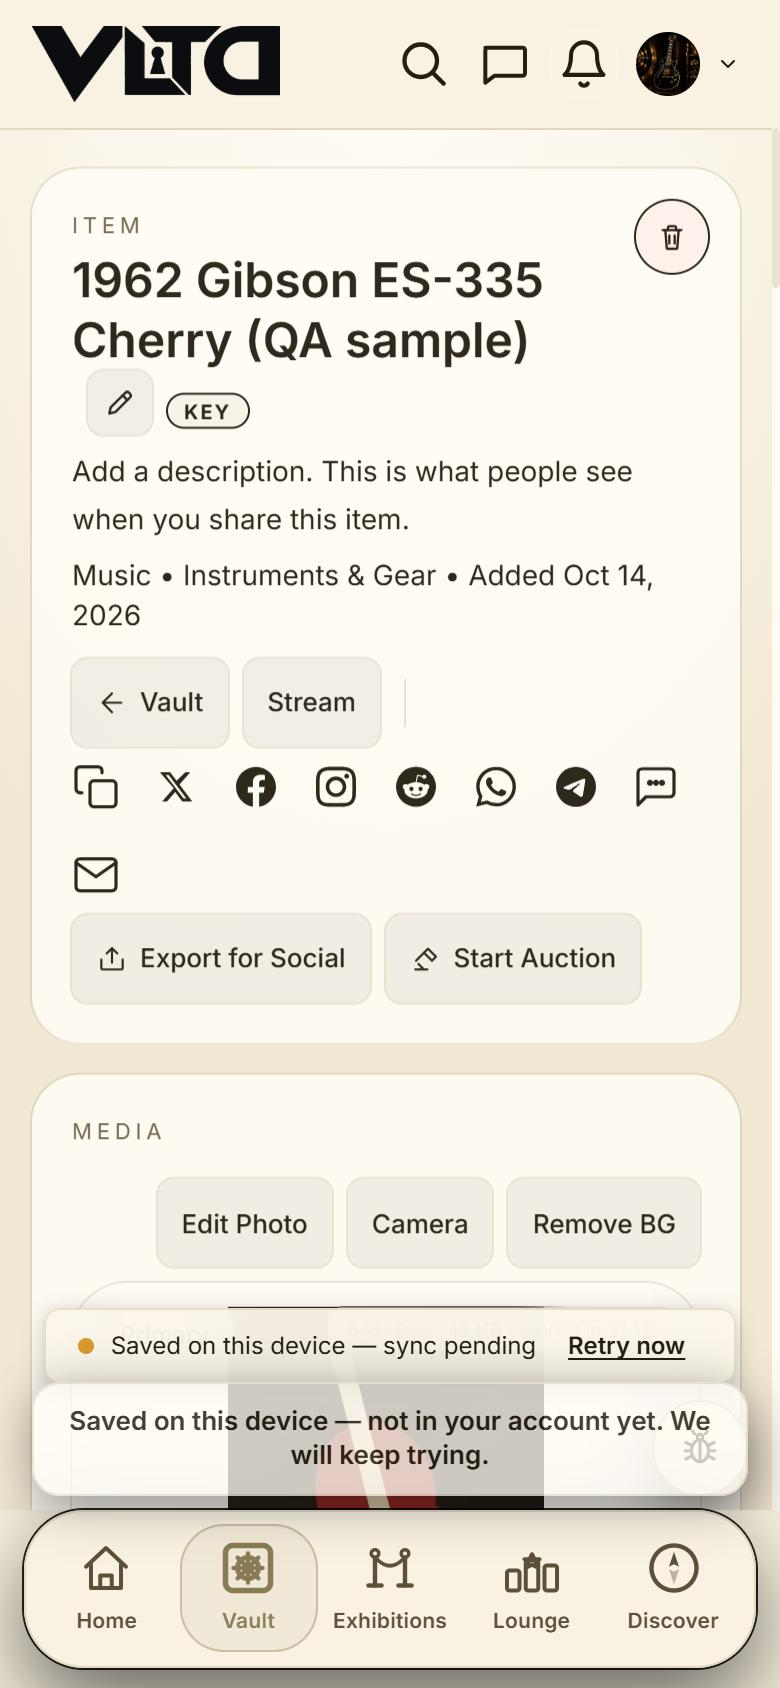
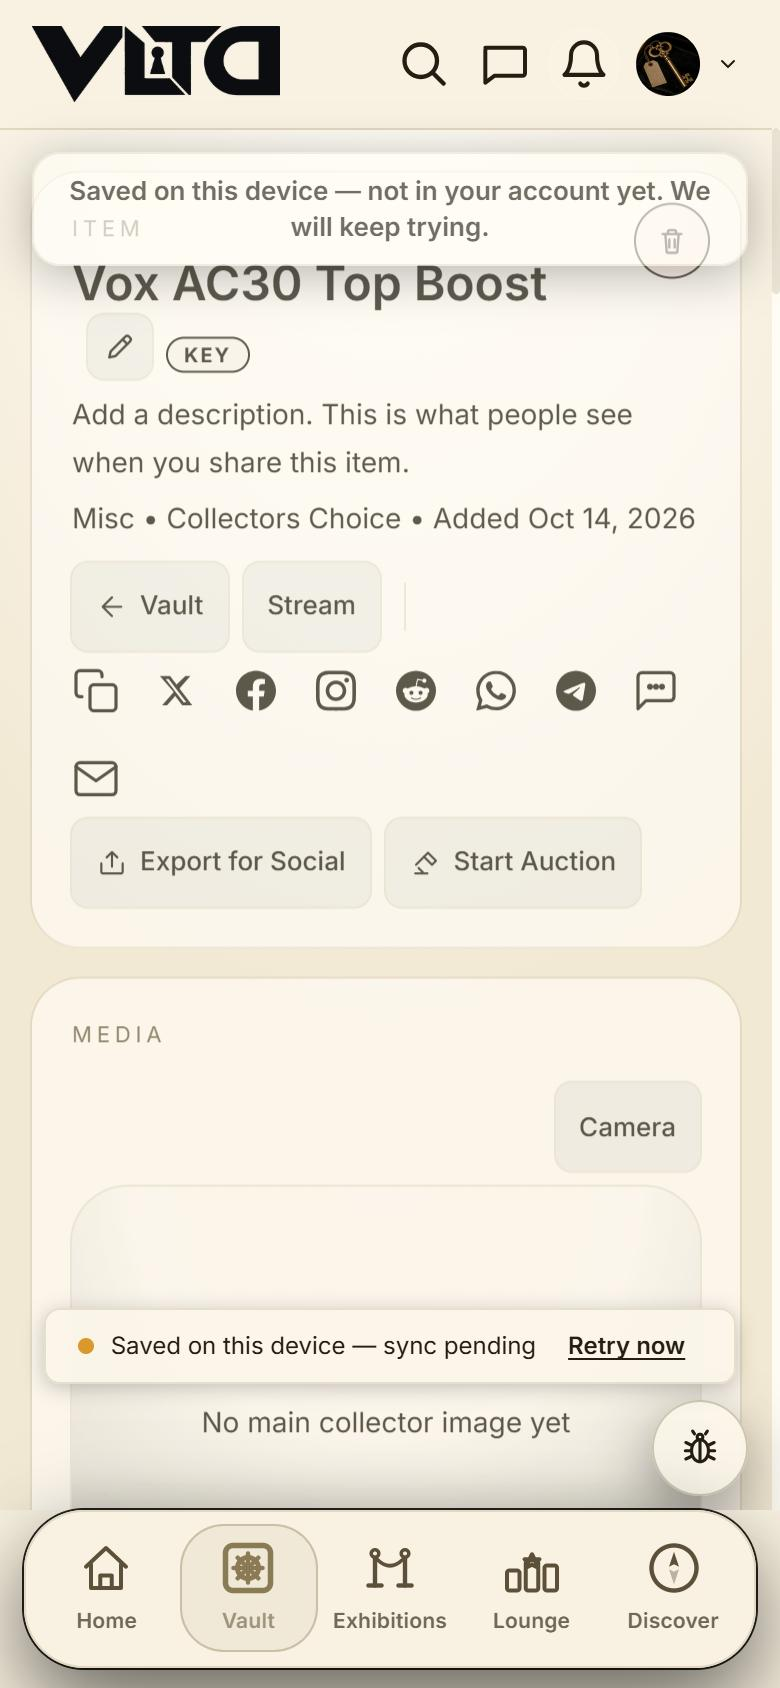
Handoff and walkthrough: record light-theme title, toast placement and arranging checks

diff --git a/docs/walkthrough/2026-10-14-qa/index.html b/docs/walkthrough/2026-10-14-qa/index.html
@@ -24,7 +24,7 @@ a{color:var(--accent)}
 <p class="lead">Add an item, build and share an exhibition, import a spreadsheet, and switch between Personal and Business profiles. Taken on the live site with a throwaway test account and made-up data (deleted afterwards).</p>
 
 <div class="note">
-<b>Tested:</b> 2026-10-14 against production <code>vltd.app</code>, code up to commit <code>97739e6</code> (import wording fixes <code>9679c45</code>/<code>79fbb34</code>, category label fix <code>ee4f8fe</code> and exhibit-name fix <code>97739e6</code> came in during the pass).<br>
+<b>Tested:</b> 2026-10-14 against production <code>vltd.app</code>, code up to commit <code>75b59aa</code> (import wording fixes <code>9679c45</code>/<code>79fbb34</code>, category label fix <code>ee4f8fe</code> and exhibit-name fix <code>97739e6</code> came in during the pass).<br>
 <b>Viewport:</b> desktop browser pane (1280 × 720) unless a step says otherwise. Narrow-screen checks used an <i>emulated</i> 320 / 390 px viewport, <b>not a physical phone</b>.<br>
 <b>Media:</b> numbered screenshots only. <b>No screen recording was produced</b> (the browser pane used for testing cannot record video); the narration scripts and shot lists below are ready for a later recording. If the app changes after the commit above, re-check the labels.<br>
 <b>Not captured / not verified:</b> real camera capture (blocked in the test browser), physical phone, push notifications, Comcast email delivery.
@@ -55,7 +55,8 @@ a{color:var(--accent)}
 <div class="step"><span class="num">1</span><div class="txt"><h3>Create the exhibition</h3><p>Exhibitions → <b>Create First Exhibition</b> (or <b>+ Create Exhibition</b>). Type a title and a short description.</p><p class="exp"><b>Expected:</b> the form lists your plan and remaining slots.</p><img src="img/exhibition-0-create-page.jpg" alt="Create Exhibition page"></div></div>
 <div class="step"><span class="num">2</span><div class="txt"><h3>Choose who can see it</h3><p>Under <b>Visibility</b> pick <b>Private</b>, <b>Public Exhibit</b>, <b>Guest View</b> or <b>Registered Users</b> (Private needs a paid plan), then <b>Create Exhibition</b>.</p><p class="exp"><b>Expected:</b> private is explained as "only for yourself, good for test beds before sharing".</p><img src="img/exhibition-1-visibility.jpg" alt="Visibility options on the Create Exhibition page"></div></div>
 <div class="step"><span class="num">3</span><div class="txt"><h3>Add items</h3><p>On the exhibition page choose <b>Edit/Add</b>, tick items in the picker (the counter shows how many of 18), then <b>Add to Exhibit (n)</b>.</p><p class="exp"><b>Expected:</b> the picked items appear on the shelf, "Saved to your account" shows, and the curated value and cost update.</p><img src="img/exhibition-3-pick-items.jpg" alt="Item picker with three items selected"><img src="img/exhibition-4-items-added.jpg" alt="Three items placed in the exhibit with value and cost totals"></div></div>
-<div class="step"><span class="num">4</span><div class="txt"><h3>Name the exhibit page and save</h3><p>Type an exhibit name and description in the builder and press <b>Save</b>.</p><p class="exp"><b>Expected:</b> the name is kept after a reload. (Before commit <code>97739e6</code> the name was silently dropped on a gallery with no exhibit page yet; that is fixed.) Reordering by drag was attempted with a scripted drag and not confirmed, so <b>arranging is not captured</b>.</p></div></div>
+<div class="step"><span class="num">4</span><div class="txt"><h3>Arrange the items</h3><p>Open <b>Advanced</b> under the shelf. The <b>Selected Items</b> list says "Drag selected items to reorder". Drag a card by its grip to a new place; the order is saved as you drop it.</p><p class="exp"><b>Expected:</b> the cards swap positions at once and the same order is there after a reload (checked in the cloud: Gretsch, Gibson, Fender after moving the third item to the top). The <b>Organize</b> button on the shelf only appears once the exhibition has an exhibit page (<b>Exhibit #1 → + Add Exhibit</b>); that path was not exercised. The drag was run with scripted drag events because the test browser cannot start a real mouse drag, so a real-pointer drag is still unconfirmed.</p><img src="img/exhibition-arrange-1-before.jpg" alt="Selected Items list in the original order"><img src="img/exhibition-arrange-2-after-reload.jpg" alt="Selected Items list after dragging the third item to the top and reloading"></div></div>
+<div class="step"><span class="num">4b</span><div class="txt"><h3>Name the exhibit page and save</h3><p>Type an exhibit name and description in the builder and press <b>Save</b>.</p><p class="exp"><b>Expected:</b> the name is kept after a reload. (Before commit <code>97739e6</code> the name was silently dropped on a gallery with no exhibit page yet; that is fixed.)</p></div></div>
 <div class="step"><span class="num">5</span><div class="txt"><h3>Make it public and share</h3><p>Under <b>User access mode</b> choose <b>Public Exhibit</b>, then confirm <b>Make public</b>. Use <b>Copy Link</b> or the share icons.</p><p class="exp"><b>Expected:</b> "Exhibition published!", the status chip reads Public, and the link works signed out.</p><img src="img/exhibition-5-make-public-confirm.jpg" alt="Make this exhibit public confirmation"><img src="img/exhibition-7-published-state.jpg" alt="Exhibition shown as Public with share link"></div></div>
 <div class="step"><span class="num">6</span><div class="txt"><h3>Preview as a guest</h3><p>Open the exhibition's guest route (<b>Preview ↗</b> / <code>/guest</code>) to see what visitors see.</p><p class="exp"><b>Expected:</b> title, description, owner display name, item count and the items.</p><img src="img/exhibition-6-guest-view.jpg" alt="Guest preview of the exhibition"></div></div>
 <p class="meta"><b>Narration:</b> "Name your exhibition, choose who can see it, then pick items from your Vault. Add a title for the room, save, and when you're ready, make it public and copy the link. Use Preview to see exactly what a visitor sees."</p>
@@ -80,9 +81,9 @@ a{color:var(--accent)}
 
 <h2 id="themes">5. Light theme and narrow screens (QA evidence)</h2>
 <div class="step"><span class="num">1</span><div class="txt"><h3>Appearance → Light</h3><p>Account menu → <b>Appearance</b> (opens Settings → Preferences). Choose <b>Light</b>, then <b>Save</b>. The page says "Light themes are in beta".</p><img src="img/light-1-appearance.jpg" alt="Appearance settings in light theme"></div></div>
-<div class="step"><span class="num">2</span><div class="txt"><h3>Save-status note and long message at 390 px (emulated)</h3><p><b>Expected:</b> the "Saved on this device — sync pending" note sits above the bottom navigation and the long toast wraps inside the screen without covering the nav.</p><img src="img/light-2-390-pill-and-toast.jpg" alt="Pending note and wrapped toast above bottom navigation at 390 px"></div></div>
+<div class="step"><span class="num">2</span><div class="txt"><h3>Save-status note and long message at 390 px (emulated, light theme)</h3><p><b>Expected:</b> the "Saved on this device — sync pending" note sits above the bottom navigation and the long toast drops in under the header (narrow screens only), wraps inside the screen, and never covers the nav, Add Item or the bug-report button.</p><img src="img/light-2-390-pill-and-toast.jpg" alt="Pending note and wrapped toast above bottom navigation at 390 px"></div></div>
 <div class="step"><span class="num">3</span><div class="txt"><h3>Delete dialog at 320 px (emulated)</h3><p><b>Expected:</b> the dialog fits the screen; <b>Cancel</b> and <b>Delete Forever</b> are both reachable above the bottom navigation.</p><img src="img/light-3-320-delete-dialog.jpg" alt="Delete dialog at 320 px in light theme"></div></div>
-<p class="meta">Known, not fixed (not clipping/overlap): in the light theme the exhibition page title is very low contrast against the cream card.</p>
+<div class="step"><span class="num">4</span><div class="txt"><h3>Exhibition title in the light themes</h3><p><b>Expected:</b> the title and description use the theme's own text colour. Measured contrast: Steel 18.1:1, Cloud 15.3:1, Platinum 16.3:1 (fixed in <code>75b59aa</code>; a cover image still uses light text over its dark scrim, not exercised).</p><img src="img/exhibition-8-light-title-readable.jpg" alt="Exhibition page in the light Platinum theme with a readable title"></div></div>
 
 <h2 id="help-delete">Separate Help topic: deleting</h2>
 <p class="meta">Verified live earlier on 2026-10-14; no screenshots captured in this pass.</p>

diff --git a/HANDOFF.md b/HANDOFF.md
@@ -1,3 +1,19 @@
+# 2026-10-14 (latest) — Bounded corrections: light-theme title, toast placement, item arranging
+
+Commit `75b59aa` (deployed, verified live). Redesign untouched.
+
+| Correction | Result | Evidence |
+|---|---|---|
+| Exhibition title faint in light themes | **FIXED, verified live** | Cause: the title block carried `vltd-dark-surface` (light text) on a card that is light in light themes. Now the class applies only when a cover image supplies a dark scrim. Measured contrast of the title on the card: Steel 18.1:1, Cloud 15.3:1, Platinum 16.3:1; layout unchanged. Cover-image case not exercised. |
+| Toast overlapping bug button / Add Item / bottom nav | **FIXED, verified live** | Under 768 px toasts now drop in just under the header (wide screens keep the bottom). At 390 and 320 px the long pending-save toast (16–374 / 16–304 px wide, 76–133 px from top) intersects neither the bug button, the bottom navigation nor the header; the full message wraps on two lines. Floating Add Item sits at the bottom, so cannot meet a top toast (not on the item page used for the measurement). Cost: a toast can briefly cover the top of page content (pointer-events: none). |
+| Arranging items | **WORKS via Advanced → Selected Items; saved order survives reload** | Moved the third item to the top: list order and the cloud `layout.itemIds` order matched after a reload (Gretsch, Gibson, Fender). The pane's real mouse drag does not start a native drag, so the move was done with scripted drag events (dragstart/dragover/drop) on the same handlers; a real-pointer drag on a desktop browser is still UNCONFIRMED. Note: the shelf **Organize** pill only renders when the gallery already has an exhibit page (Exhibit #1 → + Add Exhibit); a newly created exhibition has none, so shelf arranging is not offered until then (code reading; not exercised, not changed). |
+
+Walkthrough index: replaced only the screenshot that changed (`light-2-390-pill-and-toast`), added `exhibition-arrange-1/2` and `exhibition-8-light-title-readable`; step 4 of the exhibition flow now describes arranging. Still screenshots and scripts only; **no video recorded**; not published.
+Not repeated this round (reported verified live earlier, not independently re-run by EK): import, profile switching. Open: physical phone, push, Comcast resend delivery (Oct 13 confirmation bounced 554 5.0.0; IONOS draft untracked, not sent).
+QA cleanup: user `ar` and all fixtures removed; counts back to 37/37/47/3478/46; pane storage cleared, viewport desktop. The pane account's theme choice died with the deleted QA user.
+
+---
+
 # 2026-10-14 (latest) — Remaining checks + walkthroughs: FINAL REPORT
 
 Commits this round (all deployed and re-checked live): `9679c45` import paste box showed typed 

diff --git a/docs/walkthrough/2026-10-14-qa/README.md b/docs/walkthrough/2026-10-14-qa/README.md
@@ -1,3 +1,3 @@
 # Walkthroughs — QA pass 2026-10-14
 
-Open **[index.html](index.html)** (screenshots in `img/`). Tested against production, code up to commit `97739e6`; desktop pane, plus emulated 320/390 px checks (not a physical phone). Screenshots only: no screen recording was produced. Nothing is published.
+Open **[index.html](index.html)** (screenshots in `img/`). Tested against production, code up to commit `75b59aa`; desktop pane, plus emulated 320/390 px checks (not a physical phone). Screenshots only: no screen recording was produced. Nothing is published.
